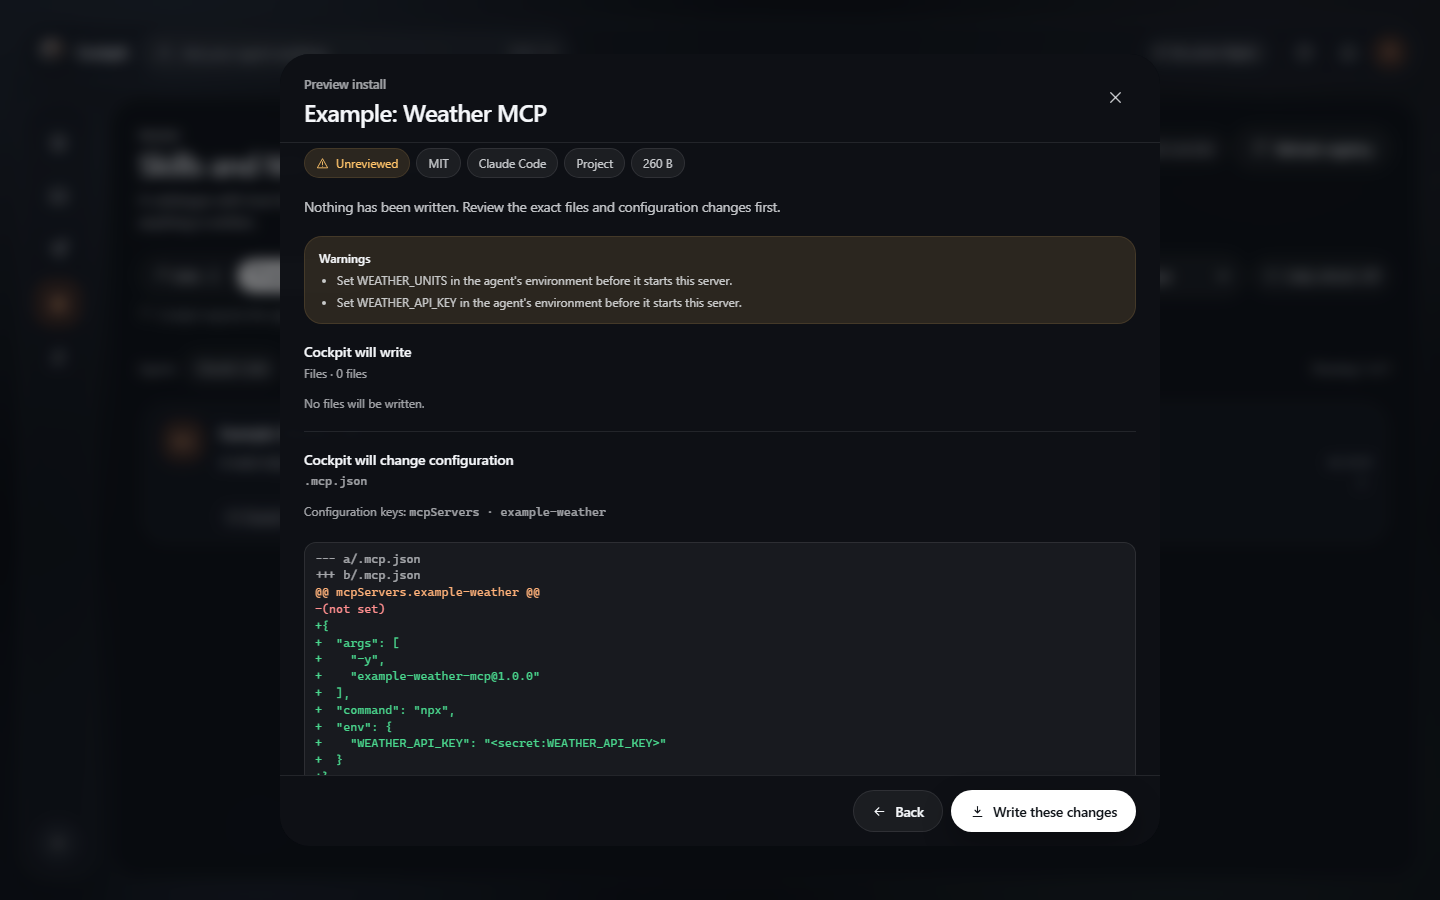
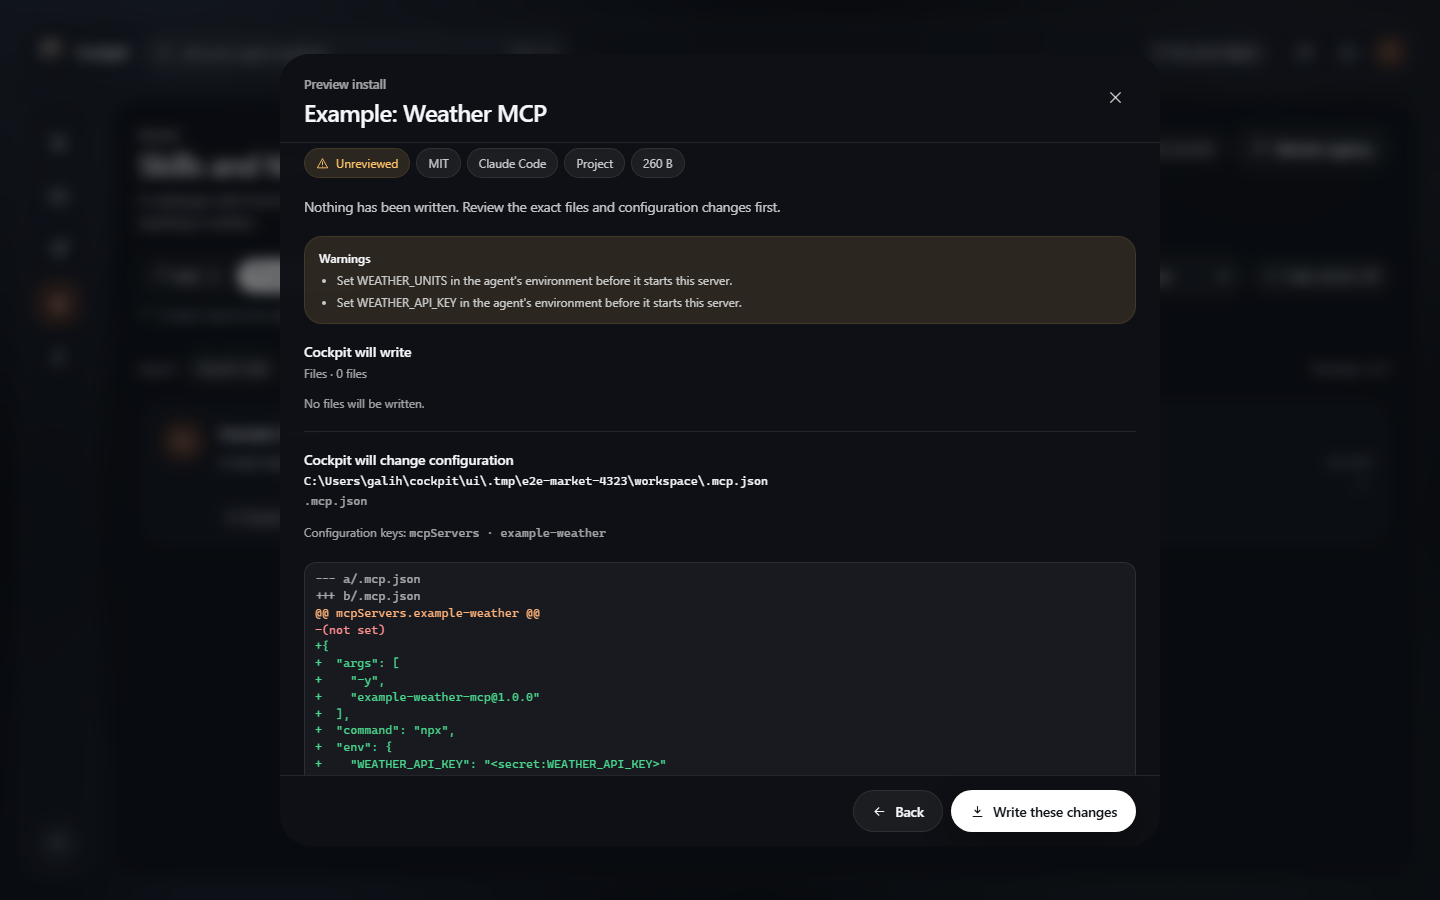
fix: show resolved paths and provenance in the market

Changed region(s): [[0.2188, 0.5289, 0.5312, 0.8711]]

diff --git a/ui/src/lib/screens/MarketScreen.svelte b/ui/src/lib/screens/MarketScreen.svelte
@@ -1172,15 +1172,19 @@
                 <div>
                   <dt>{t('market.source')}</dt>
                   <dd>
-                    <a class="text-link" href={detail.source.repo} target="_blank" rel="noreferrer noopener">
-                      {detail.source.repo.replace('https://github.com/', '')}
+                    <a class="text-link" href={detail.source.repo} target="_blank" rel="noopener">
+                      {detail.source.repo}
                       <Icon name="external" size={13} />
                     </a>
                   </dd>
                 </div>
                 <div>
                   <dt>{t('market.commit')}</dt>
-                  <dd><span class="market-mono">{detail.source.commit.slice(0, 12)}</span></dd>
+                  <dd><span class="market-mono">{detail.source.commit}</span></dd>
+                </div>
+                <div>
+                  <dt>{t('market.sha256')}</dt>
+                  <dd><span class="market-mono">{detail.source.contentSha256}</span></dd>
                 </div>
                 <div>
                   <dt>{t('market.license')}</dt>
@@ -1207,7 +1211,7 @@
                   <div>
                     <dt>{t('market.openSource')}</dt>
                     <dd>
-                      <a class="text-link" href={detail.homepage} target="_blank" rel="noreferrer noopener">
+                      <a class="text-link" href={detail.homepage} target="_blank" rel="noopener">
                         {detail.homepage}
                         <Icon name="external" size={13} />
                       </a>
@@ -1261,6 +1265,12 @@
             </div>
 
             <p class="market-detail-lede">{t('market.previewBody')}</p>
+
+            {#if preview.kind === 'skill'}
+              <div class="market-warning" data-testid="market-skill-warning">
+                <p>{t('market.skillWarning')}</p>
+              </div>
+            {/if}
 
             {#if preview.update}
               <div class="market-warning">
@@ -1338,7 +1348,10 @@
                     {#each preview.files as file (file.path)}
                       <li>
                         <div class="market-preview-file__head">
-                          <span class="market-mono">{file.displayPath}</span>
+                          <span class="market-path">
+                            <span class="market-mono" data-testid="market-preview-file-path">{file.path}</span>
+                            <span class="market-muted market-path__display" data-testid="market-preview-file-display">{file.displayPath}</span>
+                          </span>
                           <span class={`status-pill ${actionClass(file.action)}`}>
                             {t(actionKey(file.action))}
                           </span>
@@ -1367,7 +1380,10 @@
                 <section class="sheet-section">
                   <div class="sheet-section__head">
                     <h3>{t('market.willConfigure')}</h3>
-                    <p class="market-mono">{preview.config.displayPath}</p>
+                    <p class="market-path">
+                      <span class="market-mono" data-testid="market-config-path">{preview.config.path}</span>
+                      <span class="market-muted market-path__display" data-testid="market-config-display">{preview.config.displayPath}</span>
+                    </p>
                   </div>
                   <p class="market-muted">
                     {t('market.configKeys')}: <span class="market-mono">{preview.config.keyPath.join(' · ')}</span>

diff --git a/ui/tests/e2e/market.spec.ts b/ui/tests/e2e/market.spec.ts
@@ -12,6 +12,8 @@ const USER_HOME = path.join(MARKET_HOME, 'user');
 const PROJECT_CONFIG = path.join(MARKET_HOME, 'workspace', '.mcp.json');
 const MANIFEST_DIR = path.join(MARKET_HOME, 'market', 'installed');
 const SECRET_VALUE = 'e2e-secret-value';
+const COMMIT_SHA = '1'.repeat(40);
[1 lines of base64/hex data omitted]
 
 const SKILL_ID = 'example-changelog-writer';
 const OTHER_SKILL_ID = 'example-commit-messages';
@@ -81,6 +83,15 @@ test('catalogue, instant search, filters and detail', async ({ page }) => {
   ).toBeVisible();
   await expect(sheet.getByText('filesystem:read')).toBeVisible();
   await expect(sheet.getByText('README', { exact: true })).toBeVisible();
+  await expect(sheet.getByText(COMMIT_SHA)).toBeVisible();
+  await expect(sheet.getByText(CONTENT_SHA)).toBeVisible();
+  await expect(sheet.getByText('MIT', { exact: true })).toBeVisible();
+  const repo = sheet.getByRole('link', {
+    name: /https:\/\/github\.com\/cockpit-examples\/commit-messages/,
+  });
+  await expect(repo).toHaveAttribute('rel', 'noopener');
+  await expect(repo).toHaveText('https://github.com/cockpit-examples/commit-messages');
+  await sheet.getByText('Pinned commit').scrollIntoViewIfNeeded();
   await shot(page, 'market-detail.png');
 });
 
@@ -100,10 +111,24 @@ test('skill install preview, installed tab, uninstall and undo', async ({ page }
   await openDetail(page, SKILL_ID);
   await previewInstall(page);
   await expect(page.getByTestId('market-confirm-install')).toBeEnabled();
+  await expect(page.getByTestId('market-skill-warning')).toContainText(
+    'instructions for your agent',
+  );
+  const skillFile = path.join(
+    USER_HOME,
+    '.claude',
+    'skills',
+    'example-changelog-writer',
+    'SKILL.md',
+  );
+  await expect(page.getByTestId('market-preview-file-path').first()).toHaveText(skillFile);
+  await expect(page.getByTestId('market-preview-file-display').first()).toHaveText(
+    '~/.claude/skills/example-changelog-writer/SKILL.md',
+  );
 
   const sheet = page.getByTestId('market-sheet');
   await sheet.getByText('Show diff').first().click();
-  await expect(sheet.getByText('SKILL.md')).toBeVisible();
+  await expect(sheet.locator('.market-diff pre').first()).toContainText('# Changelog Writer');
   await shot(page, 'market-preview.png');
 
   await page.getByTestId('market-confirm-install').click();
@@ -157,6 +182,8 @@ test('mcp secret, config diff, install and undo', async ({ page }) => {
   const sheet = page.getByTestId('market-sheet');
   const secret = page.getByTestId('market-secret-WEATHER_API_KEY');
   await expect(secret).toBeVisible();
+  await expect(page.getByTestId('market-config-path')).toHaveText(PROJECT_CONFIG);
+  await expect(page.getByTestId('market-config-display')).toHaveText('.mcp.json');
   await expect(page.getByTestId('market-confirm-install')).toBeDisabled();
   await secret.fill('e2e-secret-value');
   await expect(page.getByTestId('market-confirm-install')).toBeEnabled();

diff --git a/ui/src/lib/i18n/catalog.ts b/ui/src/lib/i18n/catalog.ts
@@ -376,6 +376,7 @@ const en = {
   'market.previewTitle': 'Preview install',
   'market.previewLoading': 'Downloading and verifying the pinned archive.',
   'market.previewBody': 'Nothing has been written. Review the exact files and configuration changes first.',
+  'market.skillWarning': 'This text becomes instructions for your agent. Read it like code.',
   'market.previewUpdate': 'This replaces an installed version.',
   'market.previewUpdateBody': 'Cockpit will show the diff against the installed files and keep a backup before writing.',
   'market.willWrite': 'Cockpit will write',
@@ -471,7 +472,7 @@ const en = {
   'market.verifiedIndex': 'Signature verified',
   'market.entryCount': { one: '{count} entry', other: '{count} entries' },
   'market.configKeys': 'Configuration keys',
-  'market.sha256': 'SHA-256',
+  'market.sha256': 'Content SHA-256',
   'market.size': 'Size',
   'market.action': 'Action',
   'market.previewExpired': 'This preview expired. Preview again.',

diff --git a/ui/src/app.css b/ui/src/app.css
@@ -7306,9 +7306,22 @@ html[data-glass-reason='reduced-transparency'] .panel {
   gap: 8px;
 }
 
-.market-preview-file__head .market-mono {
+.market-path {
+  display: flex;
   flex: 1 1 240px;
+  flex-direction: column;
+  gap: 2px;
+  min-width: 0;
+}
+
+.market-path .market-mono {
   color: var(--text);
+}
+
+.market-path__display {
+  font-family: var(--font-mono);
+  font-size: max(var(--text-min), calc(10.5px * var(--font-scale)));
+  overflow-wrap: anywhere;
 }
 
 .market-diff {

diff --git a/crates/cockpit-daemon/src/market/targets.rs b/crates/cockpit-daemon/src/market/targets.rs
@@ -398,7 +398,9 @@ fn resolve_one(
                     "`{path}` escapes the user home."
                 )));
             }
-            let actual = context.user_home.join(rest);
+            let actual = context
+                .user_home
+                .join(rest.replace('/', std::path::MAIN_SEPARATOR_STR));
             Ok((actual, format!("~/{rest}")))
         }
         InstallScope::Project => {
@@ -416,7 +418,7 @@ fn resolve_one(
                     "`{path}` is not a safe project path."
                 )));
             }
-            let actual = workspace.join(&normalized);
+            let actual = workspace.join(normalized.replace('/', std::path::MAIN_SEPARATOR_STR));
             Ok((actual, normalized))
         }
     }
@@ -721,6 +723,38 @@ verified = true
         assert_eq!(claude["env"]["DEMO_KEY"], "value");
         let opencode = render_mcp_value(&entry, McpStyle::OpenCode, Some(&secrets)).unwrap();
         assert_eq!(opencode["environment"]["DEMO_KEY"], "{env:DEMO_KEY}");
+    }
+
+    #[cfg(windows)]
+    #[test]
+    fn resolved_windows_paths_use_one_separator() {
+        let registry = registry();
+        let context = TargetContext {
+            adapters: &registry,
+            user_home: Path::new(r"C:\Users\tester"),
+            workspace: Some(Path::new(r"C:\work\project")),
+        };
+        let skill = resolve(
+            &entry(MarketKind::Skill),
+            "claude-code",
+            InstallScope::User,
+            &context,
+        )
+        .unwrap();
+        let root = skill.skill_root().unwrap();
+        assert_eq!(root, Path::new(r"C:\Users\tester\.claude\skills\demo"));
+        assert!(!root.to_string_lossy().contains('/'), "{}", root.display());
+        let mcp = resolve(
+            &entry(MarketKind::Mcp),
+            "claude-code",
+            InstallScope::Project,
+            &context,
+        )
+        .unwrap();
+        let (path, display, _, _, _) = mcp.mcp().unwrap();
+        assert_eq!(path, Path::new(r"C:\work\project\.mcp.json"));
+        assert!(!path.to_string_lossy().contains('/'), "{}", path.display());
+        assert_eq!(display, ".mcp.json");
     }
 
     #[test]

diff --git a/crates/cockpit-daemon/tests/market.rs b/crates/cockpit-daemon/tests/market.rs
@@ -401,6 +401,19 @@ async fn skill_install_uninstall_and_undo_round_trip() {
     assert!(preview.conflicts.is_empty());
     assert!(preview.command.is_none());
     assert!(preview.files.iter().all(|file| file.action == "create"));
+    assert!(
+        preview
+            .files
+            .iter()
+            .all(|file| Path::new(&file.path).is_absolute()),
+        "the preview carries resolved absolute paths"
+    );
+    assert!(
+        preview
+            .files
+            .iter()
+            .any(|file| file.display_path.starts_with("~/"))
+    );
 
     let installed = service
         .install(&preview.preview_id, BTreeMap::new())
@@ -513,6 +526,7 @@ async fn mcp_install_edits_project_config_without_losing_comments_or_secrets() {
         .unwrap();
     let config = preview.config.as_ref().expect("MCP preview has a config");
     assert_eq!(config.display_path, ".mcp.json");
+    assert!(Path::new(&config.path).is_absolute());
     assert_eq!(config.secret_names, vec!["WEATHER_API_KEY".to_string()]);
     assert_eq!(
         preview.command.as_deref(),
